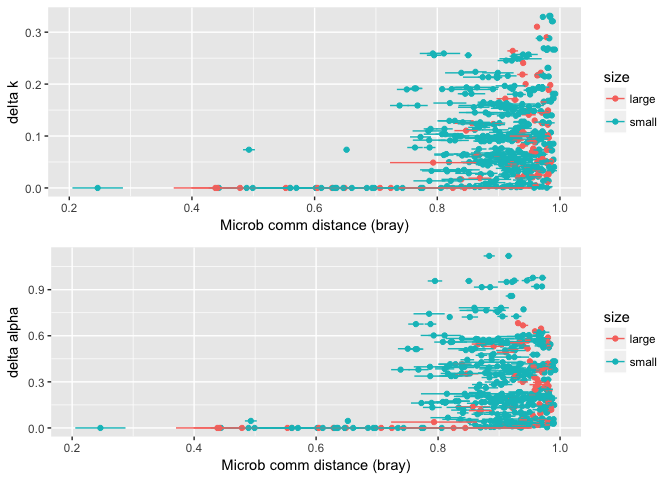
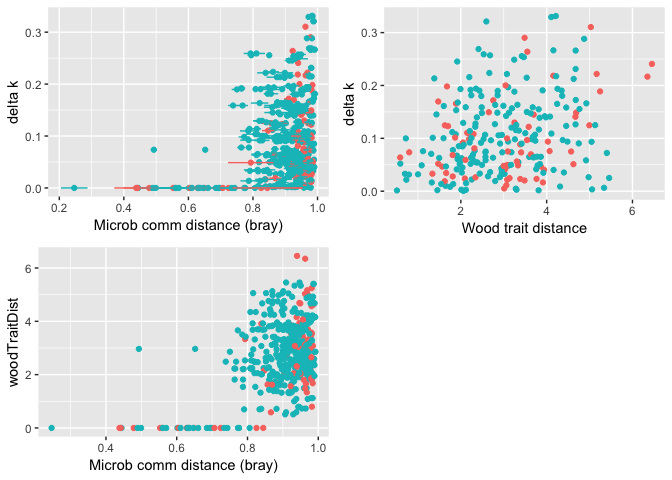
adds dist comm, traits, k correlation plots

diff --git a/README.md b/README.md
@@ -33,6 +33,10 @@ fung.otu<-load_matotu() #load the fungal OTU table
 comm.otu<-add_oomycetes(fung.otu) #add the oomycetes
 seqSamples<-load_seqSamples(comm.otu, stemSamples)
 #plot_sampleEffortCurves(comm.otu)
+
+#load taxon lookup info
+
+#load signif positively and negatively correlated OTUs, taxa
 ```
 
 ### Load wood trait data
@@ -242,42 +246,37 @@ spdf<-left_join(spdf, indx) #add code
 #   geom_abline(slope=1,intercept=0,linetype="dashed")+theme_bw()
 ```
 
-### Plot microbial community distances vs decay param distances between species+size
+### Correlation between Code dissimilarities in (a) initial microbial community composition, (b) initial wood traits, and (b) decay trajectory params
 
 ``` r
-# community composition, bray
+# community composition (bray) vs delta k
 pList<-Make_commDistvDist_Fig(distType="bray", valueCol_vec=c("k","alpha"), seqSamples, stemSamples, comm.otu, spdf)
-grid.arrange(pList[['k']], pList[['alpha']])
+p.commVdecay<-pList[['k']] + guides(color=FALSE)
+
+# wood trait vs delta k
+pList<-Make_woodTraitDistvDist_Fig(valueCol_vec=c("k","alpha"), seqSamples, stemSamples, traits.mean, spdf)
+p.traitVdecay<-pList[['k']] + guides(color=FALSE)
+
+# wood trait vs community composition (bray)
+traits.dist<-Calc_woodTraitDist(traits.mean)
+comm.dist<-Calc_commDists(seqSamples, comm.otu, distType="bray")
+summ.comm_dist<-SummarizeCommDist_byCodePair(comm.dist)
+trait_comm.dist<-MergeCommNWoodTraitdists_byCodePair(traits.dist, summ.comm_dist)
+p.commVtrait<-ggplot(trait_comm.dist, aes(x=mean_comm_dist, y=woodTraitDist, color=size)) + geom_point() + 
+  guides(color=FALSE) + xlab("Microb comm distance (bray)")
+
+grid.arrange(p.commVdecay, p.traitVdecay, p.commVtrait, ncol=2)
 ```
 
 ![](readme_files/figure-markdown_github-ascii_identifiers/unnamed-chunk-7-1.png)
 
-``` r
-# community composition, jaccard
-pList<-Make_commDistvDist_Fig(distType="jaccard", valueCol_vec=c("k","alpha"), seqSamples, stemSamples, comm.otu, spdf)
-grid.arrange(pList[['k']], pList[['alpha']])
-```
+### Plot presence of key players vs decay param distances between species+size
 
-![](readme_files/figure-markdown_github-ascii_identifiers/unnamed-chunk-7-2.png)
+### Plot frequency of negative/positive taxa 'interactions' vs decay param distances between species+size
 
-``` r
-# richness
-pList<-Make_commDistvDist_Fig(distType="richness", valueCol_vec=c("k","alpha"), seqSamples, stemSamples, comm.otu, spdf)
-grid.arrange(pList[['k']], pList[['alpha']])
-```
+### Plot microbial beta diversity WITHIN species+size vs R2 of neg.exponential
 
-![](readme_files/figure-markdown_github-ascii_identifiers/unnamed-chunk-7-3.png) Not a lot of information in initial mean microbial composition distance (bray or jaccard) about differences in species+size decay trajectories. Likewise, richness is not useful.
-
-### Plot wood trait distances vs decay param distances between species+size
-
-``` r
-pList<-Make_woodTraitDistvDist_Fig(valueCol_vec=c("k","alpha"), seqSamples, stemSamples, traits.mean, spdf)
-grid.arrange(pList[['k']], pList[['alpha']])
-```
-
-![](readme_files/figure-markdown_github-ascii_identifiers/unnamed-chunk-8-1.png) Seems like there is more information in inital wood trait distance about species+size decay trajectories than there is in the initial community composition/richness
-
-### Plot species+size beta diversity of microbial community vs AIC of neg.exponential
+need to update this to reflect R2, not AIC
 
 ``` r
 #calculate pairwise community distances
@@ -318,7 +317,7 @@ p.w.aic<-ggplot(comm.dist.wth, aes(x=mean, y=w.aic, color=species, shape=size)) 
 grid.arrange(p.negexp.aic, p.w.aic)
 ```
 
-![](readme_files/figure-markdown_github-ascii_identifiers/unnamed-chunk-9-1.png)
+![](readme_files/figure-markdown_github-ascii_identifiers/unnamed-chunk-10-1.png)
 
 ``` r
 #dev.off()
